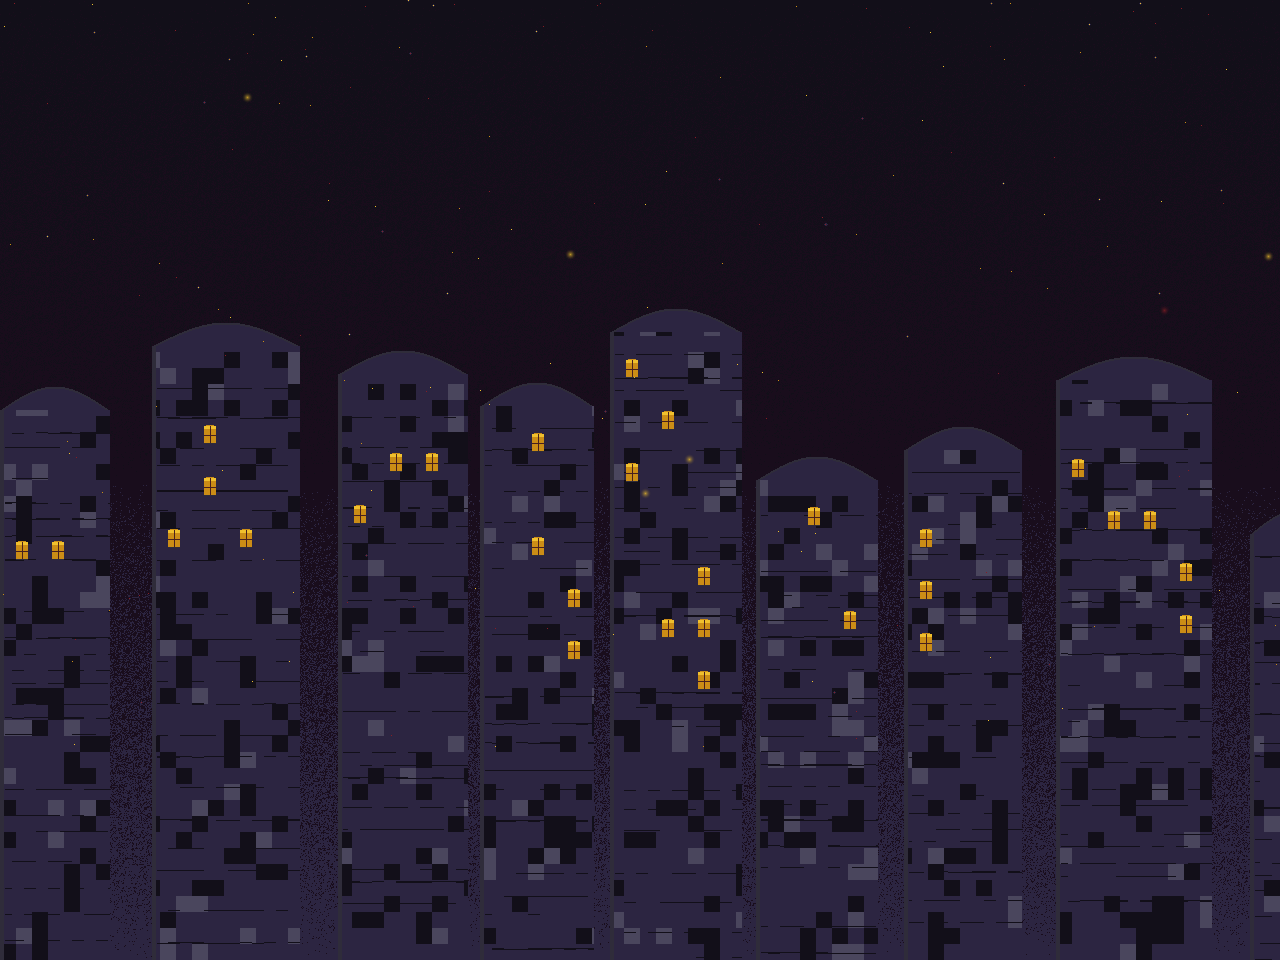
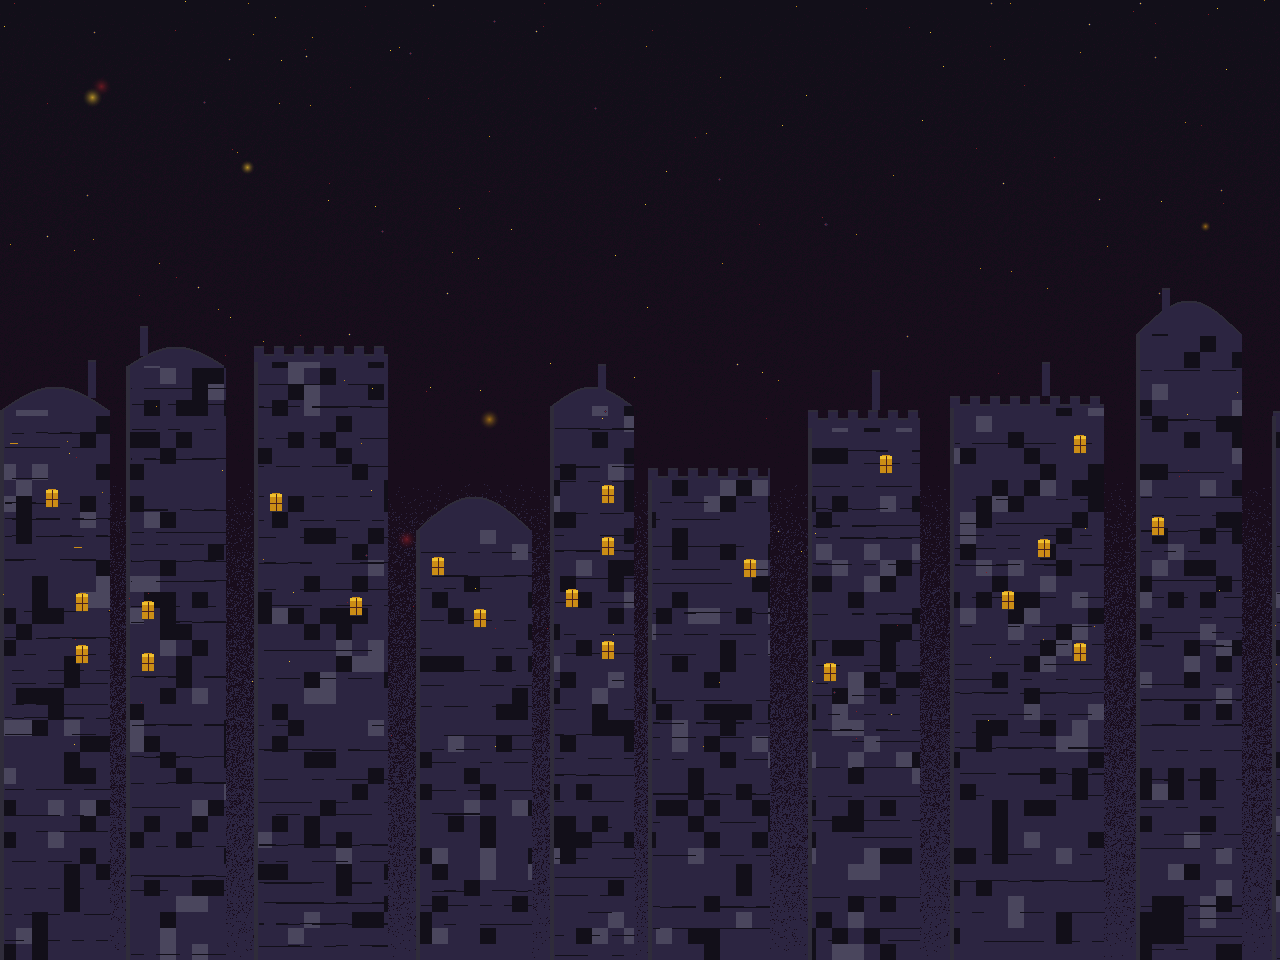
Pass 519: varied ashlar and distant rooflines — the Spires brick and the Hearthroot skyline
Break the last two fields the independent grade (pass 515) read as one
repeated stamp, the two the masonry sweep did not reach.

- Spires ashlar (paint_shrine): seed-keyed block scale, weathered stones,
  and a rare per-block gold inlay, so the factory's scattered row-7
  variants read as differently-coursed masonry instead of one gold-dashed
  stamp. Texture-only; pale colour, outlines and caps/slopes unchanged.
- Hearthroot skyline (hearthroot_far): each distant house picks a roof
  silhouette (arch, gable, battlement, stepped) with a per-house peak,
  some with a chimney and a varied window stride, so a row of houses reads
  as a varied drowned-town skyline, not one arch copied across.

Only assets/tiles/spires.png and assets/bg/hearthroot_far.png regenerated.
Three mutation-checked tools/art/test_tilegen.py guards (inlay sparsity,
seed-keyed course scale, roof-style variety). Bible 12.18. Backdrop/texture
only, behind the play field — combat untouched. Full suite 9410/0.

diff --git a/tools/art/tilegen.py b/tools/art/tilegen.py
@@ -153,14 +153,26 @@ def paint_bricks(img, ox, oy, seed, ramp):
 
 def paint_shrine(img, ox, oy, seed, ramp):
     """Carillon's ruined elf shrines: big pale ashlar blocks, weathered and
-    cracked, some still carrying a groove of gold inlay along their face."""
-    bw, bh = 12 * D, 6 * D
+    cracked, some still carrying a groove of gold inlay along their face.
+
+    The block scale, the per-stone weathering and the gold inlay are all keyed to
+    ``seed``, so the factory's scattered row-7 variants (each a fresh seed) read as
+    differently-coursed masonry instead of one repeated stamp — the independent
+    grade's recurring "Spires brick field reads as one repeated stamp" (passes
+    497/502/504/515, bible 12.8)."""
+    # Course scale varies with the seed so adjacent scattered variants differ.
+    bw = (10 + int(hash2(seed, 7, 91) * 5)) * D  # 10..14 blocks wide
+    bh = (5 + int(hash2(seed, 8, 92) * 3)) * D   # 5..7 blocks tall
     for y in range(T):
         row = y // bh
         for x in range(T):
             sx = x + (row % 2) * (bw // 2) + int(hash2(row, 0, seed) * 4) * D
             bx, ly, lx = sx // bw, y % bh, sx % bw
             shade = 4 if hash2(bx, row, seed) > 0.5 else 3
+            # A weathered stone here and there drops a shade, so the field carries
+            # block-scale value variation instead of a flat two-tone repeat.
+            if hash2(bx, row, seed + 11) > 0.82:
+                shade = max(2, shade - 1)
             if ly == bh - 1 or lx == 0:
                 col = f"{ramp}-1"
             elif ly == 0 or lx == 1:
@@ -171,8 +183,10 @@ def paint_shrine(img, ox, oy, seed, ramp):
                 col = f"{ramp}-{shade}"
                 if hash2(x // 2, y // 2, seed + 5) > 0.9:
                     col = f"{ramp}-{shade - 1}"
-            # Gold inlay: a groove across the middle of some blocks.
-            if ly == bh // 2 and 3 <= lx < bw - 3 and hash2(bx, row, seed + 7) > 0.62:
+            # Gold inlay: a groove across the middle of a few blocks. Rare and
+            # keyed per block (not a regular course), so it reads as scattered
+            # accents, never a gold dash marching across every row.
+            if ly == bh // 2 and 3 <= lx < bw - 3 and hash2(bx, row, seed + 7) > 0.82:
                 col = "gold-4" if lx % 4 else "gold-5"
             img.putpixel((ox + x, oy + y), c(col))
     # A crack or two, running down and sideways.
@@ -912,14 +926,35 @@ def hearthroot_far():
                 if (xx - x) > 2 * D and yy in cs and hash2(xx // 12, yy, 3) > 0.4:
                     col = "night-0"
                 img.putpixel((xx, yy), c(col))
-        # Arched roof with a stone rim.
+        # Roofline: one of several silhouettes per house, so a row of distant
+        # houses stops reading as the same arch copied across (independent grade,
+        # pass 515: "Hearthroot background buildings are the same two silhouettes").
+        style = rng.choice(("arch", "gable", "battlement", "stepped", "arch"))
+        peak = rng.randrange(10, 22) * D
         for xx in range(x, min(x + w, BG_W)):
             k = (xx - x) / max(w - 1, 1)
-            rise = int(math.sin(k * math.pi) * 12 * D)
+            if style == "arch":
+                rise = int(math.sin(k * math.pi) * peak)
+            elif style == "gable":
+                rise = int((1 - abs(2 * k - 1)) * peak)  # a triangular peak
+            elif style == "stepped":
+                step = int(abs(2 * k - 1) * 4)  # 0 at centre, up to 4 steps out
+                rise = max(0, peak - step * (peak // 5 + 1))
+            else:  # battlement: a flat parapet with square merlons
+                rise = peak // 2 if ((xx - x) // (5 * D)) % 2 == 0 else peak // 2 - 4 * D
+                rise = max(0, rise)
             for yy in range(top - rise, top):
                 img.putpixel((xx, yy), c("stone-1" if yy - (top - rise) < 2 else "night-1"))
+        # A chimney on some houses, a little smoke-dark stack above the roof.
+        if rng.random() < 0.4:
+            cx = x + rng.randrange(6, max(7, w // D - 6)) * D
+            ch = rng.randrange(6, 14) * D
+            for yy in range(top - peak - ch, top - peak // 2):
+                for xx in range(cx, min(cx + 4 * D, BG_W)):
+                    img.putpixel((xx, yy), c("stone-1" if yy < top - peak - ch + 2 else "night-1"))
+        wstride = rng.randrange(14, 22) * D
         for wy in range(top + 14 * D, BG_H - 140 * D, 26 * D):
-            for wx in range(x + 8 * D, x + w - 12 * D, 18 * D):
+            for wx in range(x + 8 * D, x + w - 12 * D, wstride):
                 if rng.random() < 0.22:
                     ww, wh = 6 * D, 9 * D
                     for yy in range(wy, wy + wh):

diff --git a/tools/art/test_tilegen.py b/tools/art/test_tilegen.py
@@ -513,6 +513,64 @@ def test_dark_far_fields_dress_their_sky():
     )
 
 
+def _shrine_tile(seed):
+    from PIL import Image
+
+    img = Image.new("RGBA", (tg.T, tg.T), (0, 0, 0, 0))
+    tg.paint_shrine(img, 0, 0, seed, "stone")
+    return img
+
+
+def test_shrine_gold_inlay_is_sparse():
+    # The Spires ashlar's gold inlay is a rare, scattered accent, never a groove
+    # marching across every course — the regular gold cadence read as a repeated
+    # stamp (independent grade pass 515: "Spires brick field reads as one repeated
+    # stamp", bible 12.8). (Lowering the inlay threshold back toward the old 0.62
+    # gilds far more blocks and fails this.)
+    gold = {tg.c("gold-4"), tg.c("gold-5")}
+    seeds = range(200, 224)
+    total = 0.0
+    for seed in seeds:
+        img = _shrine_tile(seed)
+        g = sum(1 for y in range(tg.T) for x in range(tg.T) if img.getpixel((x, y)) in gold)
+        total += g / (tg.T * tg.T)
+    mean = total / len(list(seeds))
+    assert mean < 0.02, f"Spires gold inlay is not sparse: {mean:.4f} of the field"
+
+
+def test_shrine_course_scale_varies_with_seed():
+    # The ashlar block scale is keyed to the seed, so the factory's scattered row-7
+    # variants (each a fresh seed) read as differently-coursed masonry rather than
+    # one stamp. A full mortar course (ly == bh-1) paints the whole row stone-1, so
+    # the number of such rows in a tile tracks its course height — and that count
+    # must not be constant across seeds. (A fixed bh makes every seed draw the same
+    # course density and fails this.)
+    stone1 = tg.c("stone-1")
+    counts = set()
+    for seed in range(200, 224):
+        img = _shrine_tile(seed)
+        rows = 0
+        for y in range(tg.T):
+            if sum(1 for x in range(tg.T) if img.getpixel((x, y)) == stone1) > 0.8 * tg.T:
+                rows += 1
+        counts.add(rows)
+    assert len(counts) >= 2, f"Spires course scale does not vary with the seed: {counts}"
+
+
+def test_hearthroot_houses_vary_rooflines():
+    # The distant Hearthroot houses pick among several roof silhouettes (arch,
+    # gable, battlement, stepped) and some carry a chimney, so a row of houses stops
+    # reading as the same arch copied across (independent grade pass 515:
+    # "Hearthroot background buildings are the same two silhouettes"). (Collapsing
+    # the roofline back to the single sine arch drops these and fails this.)
+    import inspect
+
+    src = inspect.getsource(tg.hearthroot_far)
+    for style in ("gable", "battlement", "stepped"):
+        assert f'"{style}"' in src, f"hearthroot_far no longer draws a {style} roof"
+    assert "chimney" in src.lower(), "hearthroot_far no longer draws chimneys"
+
+
 def main():
     tests = [v for k, v in sorted(globals().items()) if k.startswith("test_") and callable(v)]
     for t in tests:

diff --git a/docs/loop/pass-519.md b/docs/loop/pass-519.md
@@ -1,0 +1,99 @@
+# Pass 519: varied ashlar and distant rooflines — the Spires brick and the Hearthroot skyline
+
+## Category
+
+Art cohesion, from the queue — the first unblocked item, the independent grade's (pass 515)
+**remaining stamp repetition** that the masonry sweep (passes 514/515) did not reach: "Spires brick
+field reads as one repeated stamp, and Hearthroot's background buildings are the same two
+silhouettes copied across the row." These are the two surfaces the sweep left untouched — one play
+surface (the Carillon ashlar gameplay tileset, `paint_shrine`) and one painted backdrop (the distant
+houses of `hearthroot_far`).
+
+The PixelLab art loop stays **gated** on Sean: three guardian bases (Haar Wyrm, Thane Vorrund,
+Drowned Warden) wait for his OK, the limit of three, and no new note frees a slot, so the headline
+guardian/hero work cannot move. Sean's own top queue item (lighting/depth) is down to **rim light on
+figures** and **a second foreground band** — both touch what passes in front of the play field and
+want a watched session for the combat-readability call, not an unattended loop pass. The grade's #1
+defect at pass 515 (the dark empty band above the far layer) is likewise parked for a watched session
+(12.15). This pass takes the strongest fully-testable item left, with no readability risk.
+
+## What was built (design bible 12.18)
+
+- **Spires ashlar (`paint_shrine`).** The ashlar used a fixed block scale (12×6 cells) and gilded a
+  mid-course groove on ~38% of blocks, so a wall drew the same brick courses with a gold dash
+  marching across every row — read as one repeated stamp. Three things now vary with the seed:
+  - **Course scale is seed-keyed** — block width 10–14 and height 5–7 render cells from
+    `hash2(seed, …)` — so the factory's scattered row-7 variants (12.8), each a fresh seed, read as
+    differently-coursed masonry rather than one scale repeating.
+  - **A weathered stone here and there drops a shade**, giving the field block-scale value variation
+    instead of a flat two-tone repeat.
+  - **The gold inlay is rare** (threshold 0.82, roughly one block in five) and keyed per block, so it
+    reads as scattered accents, never a gold groove on every course — the strongest "stamp" signal.
+
+  Pale-ashlar colour, outlines and the masonry caps/slopes are unchanged.
+
+- **Hearthroot skyline (`hearthroot_far`).** The distant houses all drew the same sine-arch roof.
+  Each house now picks one of several roof silhouettes — a rounded arch, a triangular gable, a
+  crenellated battlement parapet, or a stepped gable — with a per-house peak height, and some carry a
+  chimney and a varied window stride. A row of houses reads as a varied drowned-town skyline rather
+  than the same arch copied across. The masonry body and weathered courses of 12.14 are unchanged.
+
+Only `assets/tiles/spires.png` and `assets/bg/hearthroot_far.png` were regenerated (directly, not via
+a full `tilegen` run, so no byte-only churn touched the other tilesets or backdrops). `paint_shrine`
+is used by the Spires zone alone, so no other zone's tileset changes.
+
+Combat is untouched by construction: the Hearthroot change is a receding parallax layer behind the
+play field and under the atmosphere haze (12.5); the Spires change is texture-only on the ashlar
+tileset — same pale colour, outlines and silhouette, so hazards, foes and telegraphs (which hold
+reserved accent colours) keep their contrast. Verified by eye at 1x/2x in `spires/broken_shrine` (the
+wall reads as weathered masonry; the cherry pickup, platforms, grass and shrine still pop) and in the
+raw 2x `hearthroot_far` skyline (arches, gabled roofs, crenellated towers, chimneys, varied heights).
+
+## Tests
+
+`tools/art/test_tilegen.py` gains three mutation-checked guards (this Python guard runs locally, like
+the moire/moss/variant/masonry guards before it):
+
+- **`test_shrine_gold_inlay_is_sparse`** — the mean gold-inlay coverage across a range of shrine
+  seeds stays under 2% of the field. Mutation: reverting the inlay threshold to the old 0.62 raises
+  it to ~2.7% and fails.
+- **`test_shrine_course_scale_varies_with_seed`** — the count of full mortar rows in a shrine tile
+  (a `ly == bh-1` row paints the whole width `stone-1`) takes more than one value across seeds.
+  Mutation: a fixed `bh` gives every seed the same course density and fails.
+- **`test_hearthroot_houses_vary_rooflines`** — `hearthroot_far` draws gable, battlement and stepped
+  roofs and a chimney. Mutation: collapsing the roofline back to the single sine arch fails.
+
+The full Godot suite is unaffected (no `.gd` or gameplay change) and was run green; CI (test + mix)
+green.
+
+## Rubric (design bible 15.3)
+
+| Category | Weight | Score | Notes |
+| --- | --- | --- | --- |
+| Movement feel | 20 | 99 | Unchanged. |
+| Combat and enemies | 15 | 99 | Unchanged; the Spires change is texture-only on the ashlar (same pale colour, outlines and silhouette), the Hearthroot change is backdrop-only — hazards, foes and telegraphs keep their contrast by construction (verified in `spires/broken_shrine`). |
+| World and level design | 15 | 99 | Unchanged. |
+| Art cohesion | 15 | 97 | The last two fields the grade called a repeated stamp — the Spires ashlar wall and the Hearthroot distant skyline — now read as varied weathered masonry and a varied town. Completes the stamp-repetition sweep begun in the tileset variants (504) and the backdrop masonry (514/515). The hero and guardian HD bases remain the open gap (gated art loop). |
+| Bosses | 10 | 99 | Unchanged. |
+| Systems | 10 | 99 | Unchanged. |
+| Audio | 5 | 99 | Unchanged. |
+| Stability and performance | 5 | 99 | Two static assets regenerated; no new work per frame. |
+| Story and world | 5 | 99 | Unchanged; the Spires keep their ruined-shrine ashlar and the Hearthroot its drowned-town skyline. |
+
+Weighted: 98.7.
+
+## Next
+
+Pass 520: the art loop stays **gated** on Sean (three guardian bases wait, the limit; the PixelLab
+key is set, so the moment a base is approved the Haar Wyrm animation can begin). With the stamp
+repetition now swept across the gameplay ashlar and the distant skyline, the strongest remaining
+code-first item is the **ambiguous translucent blocks in `evercrown`** (grade pass 503, queued) — the
+mid tendrils read unclearly against the ribbed far wall — or the grade's **zone-to-zone style
+incohesion** (pass 515: the painterly Market/Plaza versus the flat cartoon tile-grass of Heartwood
+and the Haar). Sean's **rim light on figures** and a **second foreground band** stay the
+highest-value lighting pieces but want a watched session for the combat-readability call, not an
+unattended pass.
+
+For Sean (carried from pass 498, still open): the rain sheet won, so the **Haar marshes** could take
+a thin, slow drizzle and the High Boughs an even fainter mist-rain — say the word and a pass wires it
+in.

diff --git a/docs/design-bible.md b/docs/design-bible.md
@@ -1730,6 +1730,16 @@ Tested, not the pixels: `tests/test_light_shaft.gd` holds the beam count to its 
 
 This leaves only **rim light on figures** open from Sean's lighting/depth request, parked for a watched session (12.12), and the grade's own **empty band above the far layer** (12.15), likewise parked.
 
+### 12.18 Varied ashlar and distant rooflines (pass 519)
+
+The independent grade (pass 515) still read two fields as one repeated stamp: the **Spires brick** (the Carillon ashlar gameplay tileset, `paint_shrine`) and the **Hearthroot background buildings** (the distant houses of `hearthroot_far`). Both are the recurring "repeated stamp" defect (passes 497/502/504/514/515), on the two surfaces the masonry sweep (12.14) and the tileset variants (12.8) had not reached — one play-surface tileset, one painted backdrop skyline.
+
+**Spires ashlar (`paint_shrine`).** The ashlar now keys its course scale to the seed — block width 10–14 and height 5–7 render cells, from `hash2(seed, …)` — so the factory's scattered row-7 variants (12.8), each a fresh seed, read as differently-coursed masonry instead of one scale repeating. A weathered stone here and there drops a shade, giving the field block-scale value variation, and the gold inlay is now rare (threshold 0.82, roughly one block in five) and keyed per block, so it reads as scattered accents rather than a gold groove marching across every course — the strongest "stamp" signal. Pale-ashlar colour, outlines and the masonry caps/slopes are unchanged, so combat reads over it as before (verified by eye at 1x/2x in `spires/broken_shrine`: the wall reads as weathered masonry, the cherry pickup, platforms and shrine still pop).
+
+**Hearthroot skyline (`hearthroot_far`).** Each distant house picks one of several roof silhouettes — a rounded arch, a triangular gable, a crenellated battlement parapet, or a stepped gable — with a per-house peak height, and some carry a chimney and a varied window stride. A row of houses now reads as a varied drowned-town skyline rather than the same arch copied across. Backdrop only, behind the play field and under the atmosphere haze (12.5); the masonry body and weathered courses of 12.14 are unchanged.
+
+Code-first and deterministic; only `assets/tiles/spires.png` and `assets/bg/hearthroot_far.png` are regenerated. `tools/art/test_tilegen.py` guards the inlay sparsity (mean gold under 2% of the field), the seed-keyed course scale (the full-mortar-row count varies across seeds), and the roof-style variety (mutation-checked).
+
 ---
 
 ## 13. Asset Production Plan
